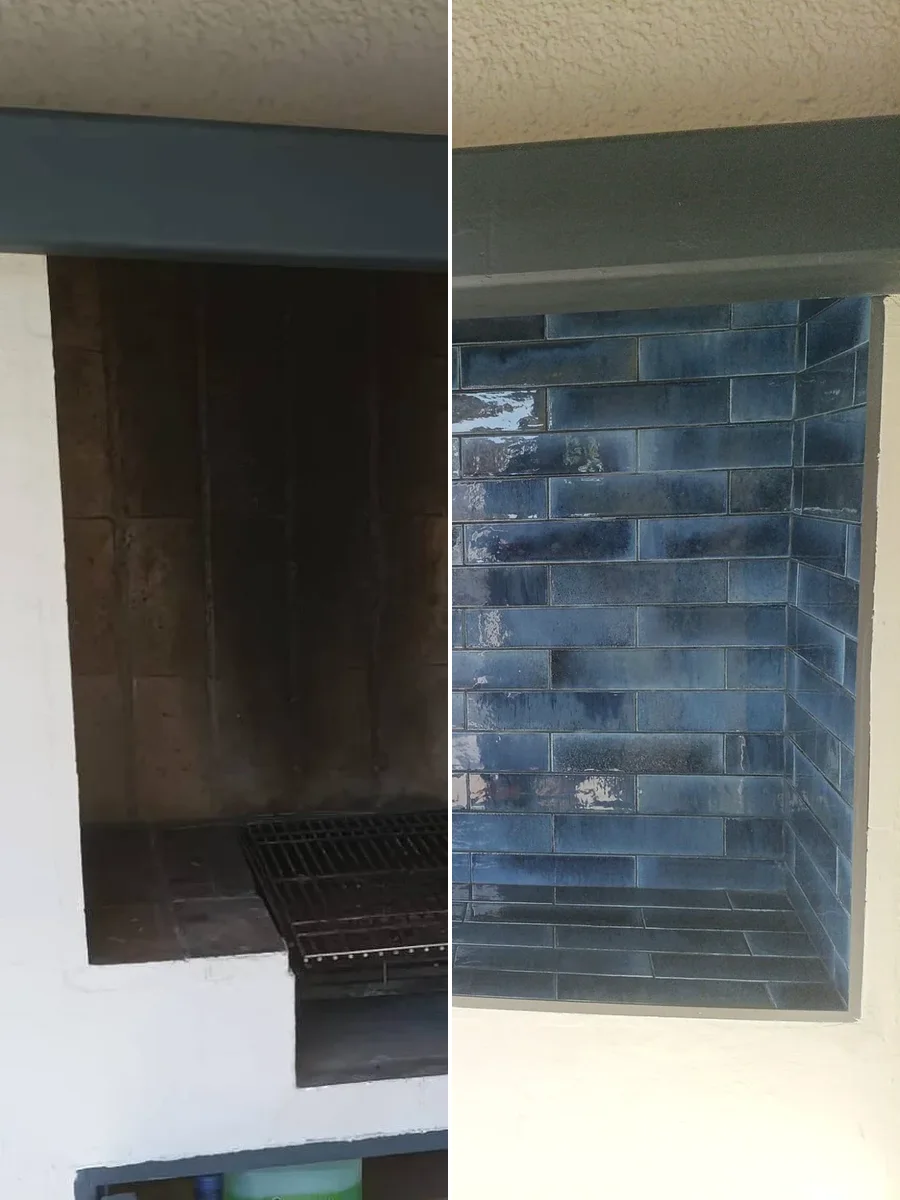
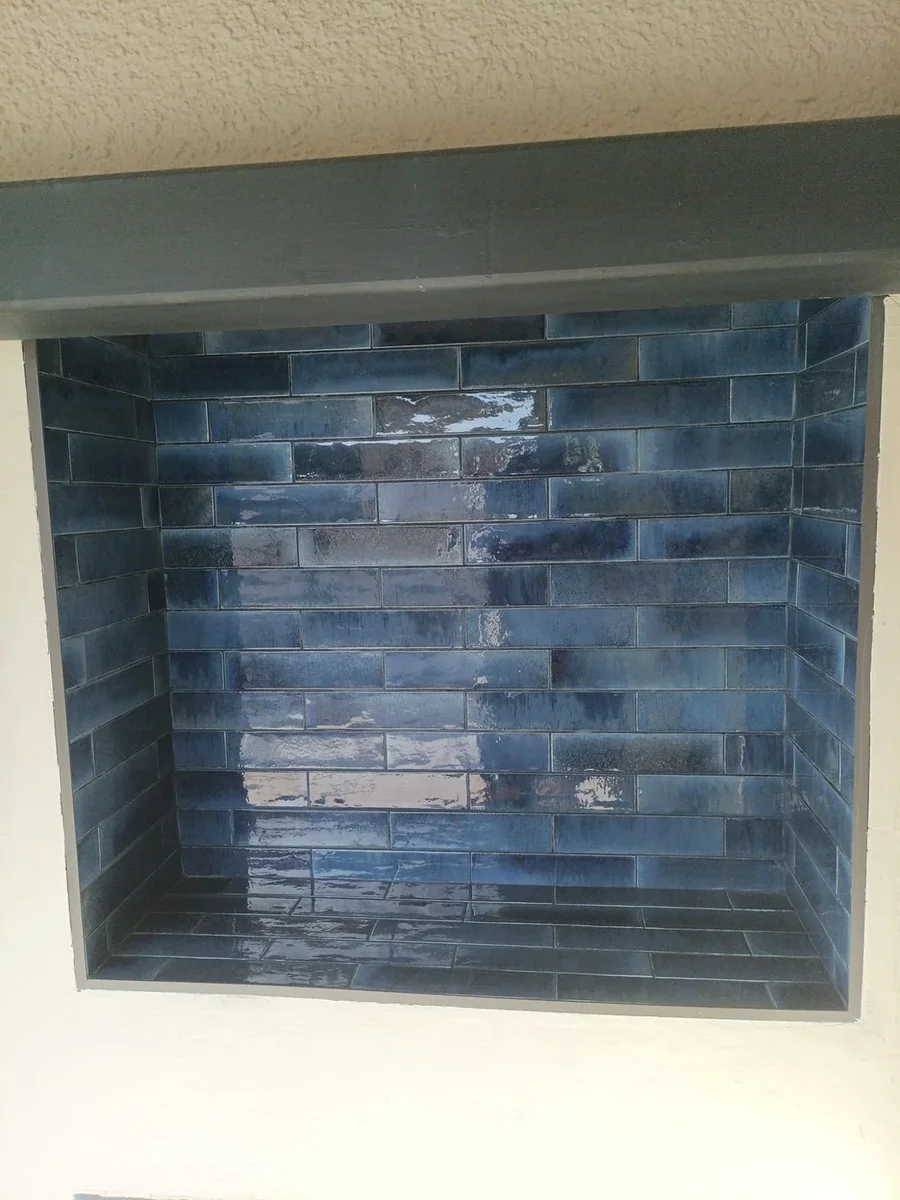
Usar la foto completa de la barbacoa renovada en Cuidado integral
Se quita la imagen partida antes/después y sus etiquetas.

Claude-Session: https://claude.ai/code/session_01EbyefxARPeqq7tQk5GNv8y

diff --git a/src/i18n/translations.ts b/src/i18n/translations.ts
@@ -28,9 +28,7 @@ export const translations: Record<Language, Record<string, string>> = {
     "services.3.alt": "Revestimiento exterior de madera y composite en vivienda en Altea",
     "services.4.title": "Cuidado integral de tu casa",
     "services.4.desc": "Reparaciones, pintura y mantenimiento para que cada rincón de tu casa luzca como el primer día.",
-    "services.4.alt": "Barbacoa de obra antes y después de su renovación con azulejos azules en Altea",
-    "services.4.before": "Antes",
-    "services.4.after": "Después",
+    "services.4.alt": "Barbacoa de obra renovada con azulejos azules en Altea",
 
     // Values
     "values.label": "Por qué elegirme",
@@ -125,9 +123,7 @@ export const translations: Record<Language, Record<string, string>> = {
     "services.3.alt": "Outdoor wood and composite cladding on a home in Altea",
     "services.4.title": "Property care",
     "services.4.desc": "Repairs, painting and upkeep so every corner of your home looks as good as new.",
-    "services.4.alt": "Built-in barbecue before and after its renovation with blue tiles in Altea",
-    "services.4.before": "Before",
-    "services.4.after": "After",
+    "services.4.alt": "Built-in barbecue renovated with blue tiles in Altea",
     "values.label": "Why choose us",
     "values.1.title": "Custom projects",
     "values.1.desc": "Every project is designed from scratch to fit your space and needs.",
@@ -210,9 +206,7 @@ export const translations: Record<Language, Record<string, string>> = {
     "services.3.alt": "Außenverkleidung aus Holz und Verbundwerkstoff an einem Haus in Altea",
     "services.4.title": "Rundum-Hauspflege",
     "services.4.desc": "Reparaturen, Malerarbeiten und Instandhaltung, damit jede Ecke Ihres Hauses wie neu aussieht.",
-    "services.4.alt": "Gemauerter Grill vor und nach der Renovierung mit blauen Fliesen in Altea",
-    "services.4.before": "Vorher",
-    "services.4.after": "Nachher",
+    "services.4.alt": "Gemauerter Grill, renoviert mit blauen Fliesen in Altea",
     "values.label": "Warum wir",
     "values.1.title": "Individuelle Projekte",
     "values.1.desc": "Jedes Projekt wird von Grund auf neu entworfen, um zu Ihrem Raum zu passen.",
@@ -295,9 +289,7 @@ export const translations: Record<Language, Record<string, string>> = {
     "services.3.alt": "Buitenbekleding van hout en composiet bij een woning in Altea",
     "services.4.title": "Complete woningzorg",
     "services.4.desc": "Reparaties, schilderwerk en onderhoud, zodat elk hoekje van uw huis er als nieuw uitziet.",
-    "services.4.alt": "Gemetselde barbecue voor en na de renovatie met blauwe tegels in Altea",
-    "services.4.before": "Voor",
-    "services.4.after": "Na",
+    "services.4.alt": "Gemetselde barbecue, gerenoveerd met blauwe tegels in Altea",
     "values.label": "Waarom wij",
     "values.1.title": "Projecten op maat",
     "values.1.desc": "Elk project wordt vanaf nul ontworpen voor uw ruimte en behoeften.",
@@ -380,9 +372,7 @@ export const translations: Record<Language, Record<string, string>> = {
     "services.3.alt": "Bardage extérieur en bois et composite sur une maison à Altea",
     "services.4.title": "Entretien complet de votre maison",
     "services.4.desc": "Réparations, peinture et entretien pour que chaque recoin de votre maison soit comme neuf.",
-    "services.4.alt": "Barbecue maçonné avant et après sa rénovation avec des carreaux bleus à Altea",
-    "services.4.before": "Avant",
-    "services.4.after": "Après",
+    "services.4.alt": "Barbecue maçonné rénové avec des carreaux bleus à Altea",
     "values.label": "Pourquoi nous choisir",
     "values.1.title": "Projets personnalisés",
     "values.1.desc": "Chaque projet est conçu sur mesure pour votre espace et vos besoins.",
@@ -465,9 +455,7 @@ export const translations: Record<Language, Record<string, string>> = {
     "services.3.alt": "Rivestimento esterno in legno e composito su un'abitazione ad Altea",
     "services.4.title": "Cura completa della casa",
     "services.4.desc": "Riparazioni, tinteggiatura e manutenzione perché ogni angolo della tua casa sembri come nuovo.",
-    "services.4.alt": "Barbecue in muratura prima e dopo la ristrutturazione con piastrelle blu ad Altea",
-    "services.4.before": "Prima",
-    "services.4.after": "Dopo",
+    "services.4.alt": "Barbecue in muratura rinnovato con piastrelle blu ad Altea",
     "values.label": "Perché sceglierci",
     "values.1.title": "Progetti personalizzati",
     "values.1.desc": "Ogni progetto è pensato da zero per adattarsi al tuo spazio e alle tue esigenze.",

diff --git a/src/components/Services.tsx b/src/components/Services.tsx
@@ -12,7 +12,7 @@ const Services = () => {
     { image: servicePergola, titleKey: "services.1.title", descKey: "services.1.desc", altKey: "services.1.alt", objectPosition: "object-top" },
     { image: serviceDeck, titleKey: "services.2.title", descKey: "services.2.desc", altKey: "services.2.alt", objectPosition: "object-center" },
     { image: serviceCladding, titleKey: "services.3.title", descKey: "services.3.desc", altKey: "services.3.alt", objectPosition: "object-center" },
-    { image: serviceHomeCare, titleKey: "services.4.title", descKey: "services.4.desc", altKey: "services.4.alt", objectPosition: "object-center", beforeAfter: true },
+    { image: serviceHomeCare, titleKey: "services.4.title", descKey: "services.4.desc", altKey: "services.4.alt", objectPosition: "object-center" },
   ];
 
   return (
@@ -44,12 +44,6 @@ const Services = () => {
                 loading="lazy"
                 className={`absolute inset-0 w-full h-full object-cover ${service.objectPosition} transition-transform duration-[1.2s] ease-out group-hover:scale-110`}
               />
-              {service.beforeAfter && (
-                <div className="absolute top-4 inset-x-4 flex justify-between pointer-events-none">
-                  <span className="px-2.5 py-1 rounded-full bg-foreground/55 backdrop-blur-sm text-primary-foreground text-[11px] tracking-widest uppercase">{t("services.4.before")}</span>
-                  <span className="px-2.5 py-1 rounded-full bg-foreground/55 backdrop-blur-sm text-primary-foreground text-[11px] tracking-widest uppercase">{t("services.4.after")}</span>
-                </div>
-              )}
               <div className="absolute inset-0 bg-gradient-to-t from-foreground/80 via-foreground/20 to-transparent group-hover:from-foreground/90 group-hover:via-foreground/30 transition-all duration-700" />
               <div className="absolute inset-x-0 bottom-0 h-1/2 backdrop-blur-[6px] [mask-image:linear-gradient(to_top,black_30%,transparent)]" />
               <div className="absolute bottom-0 left-0 right-0 p-6 md:p-7">
